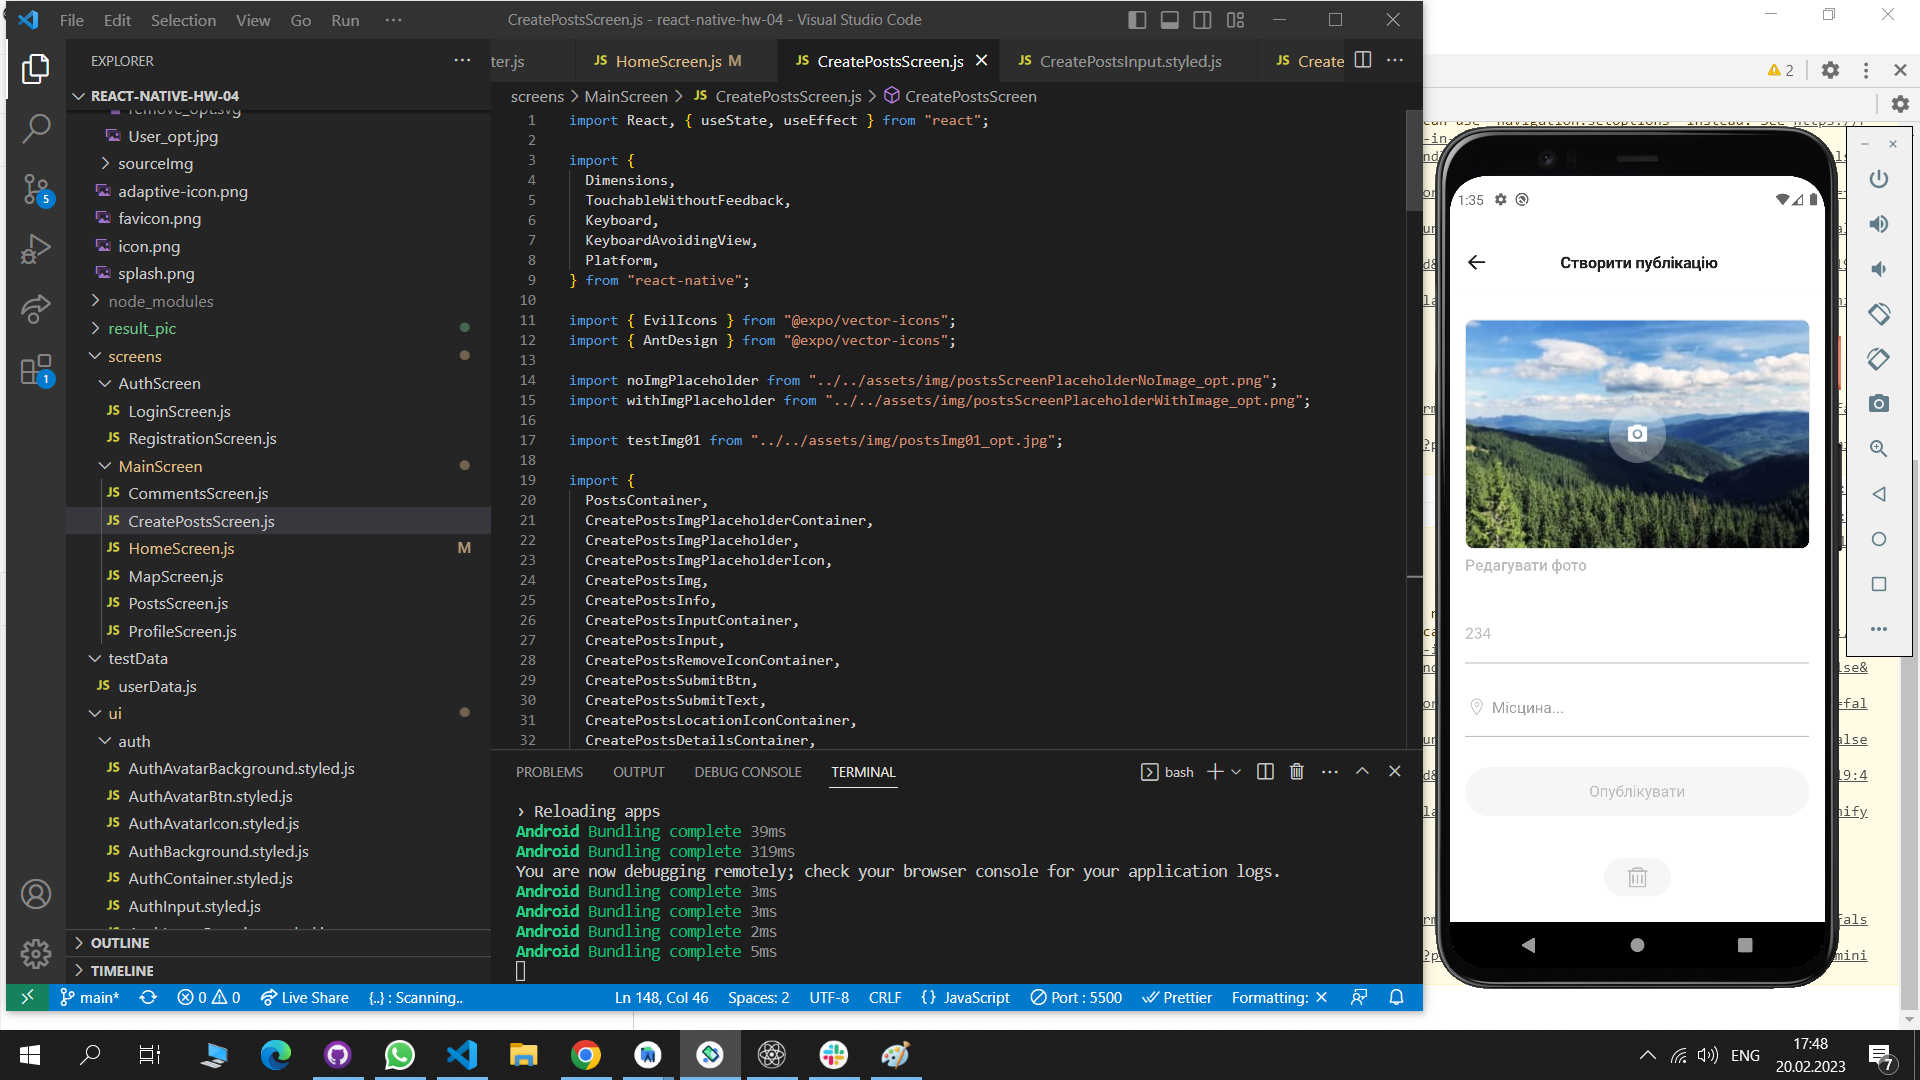
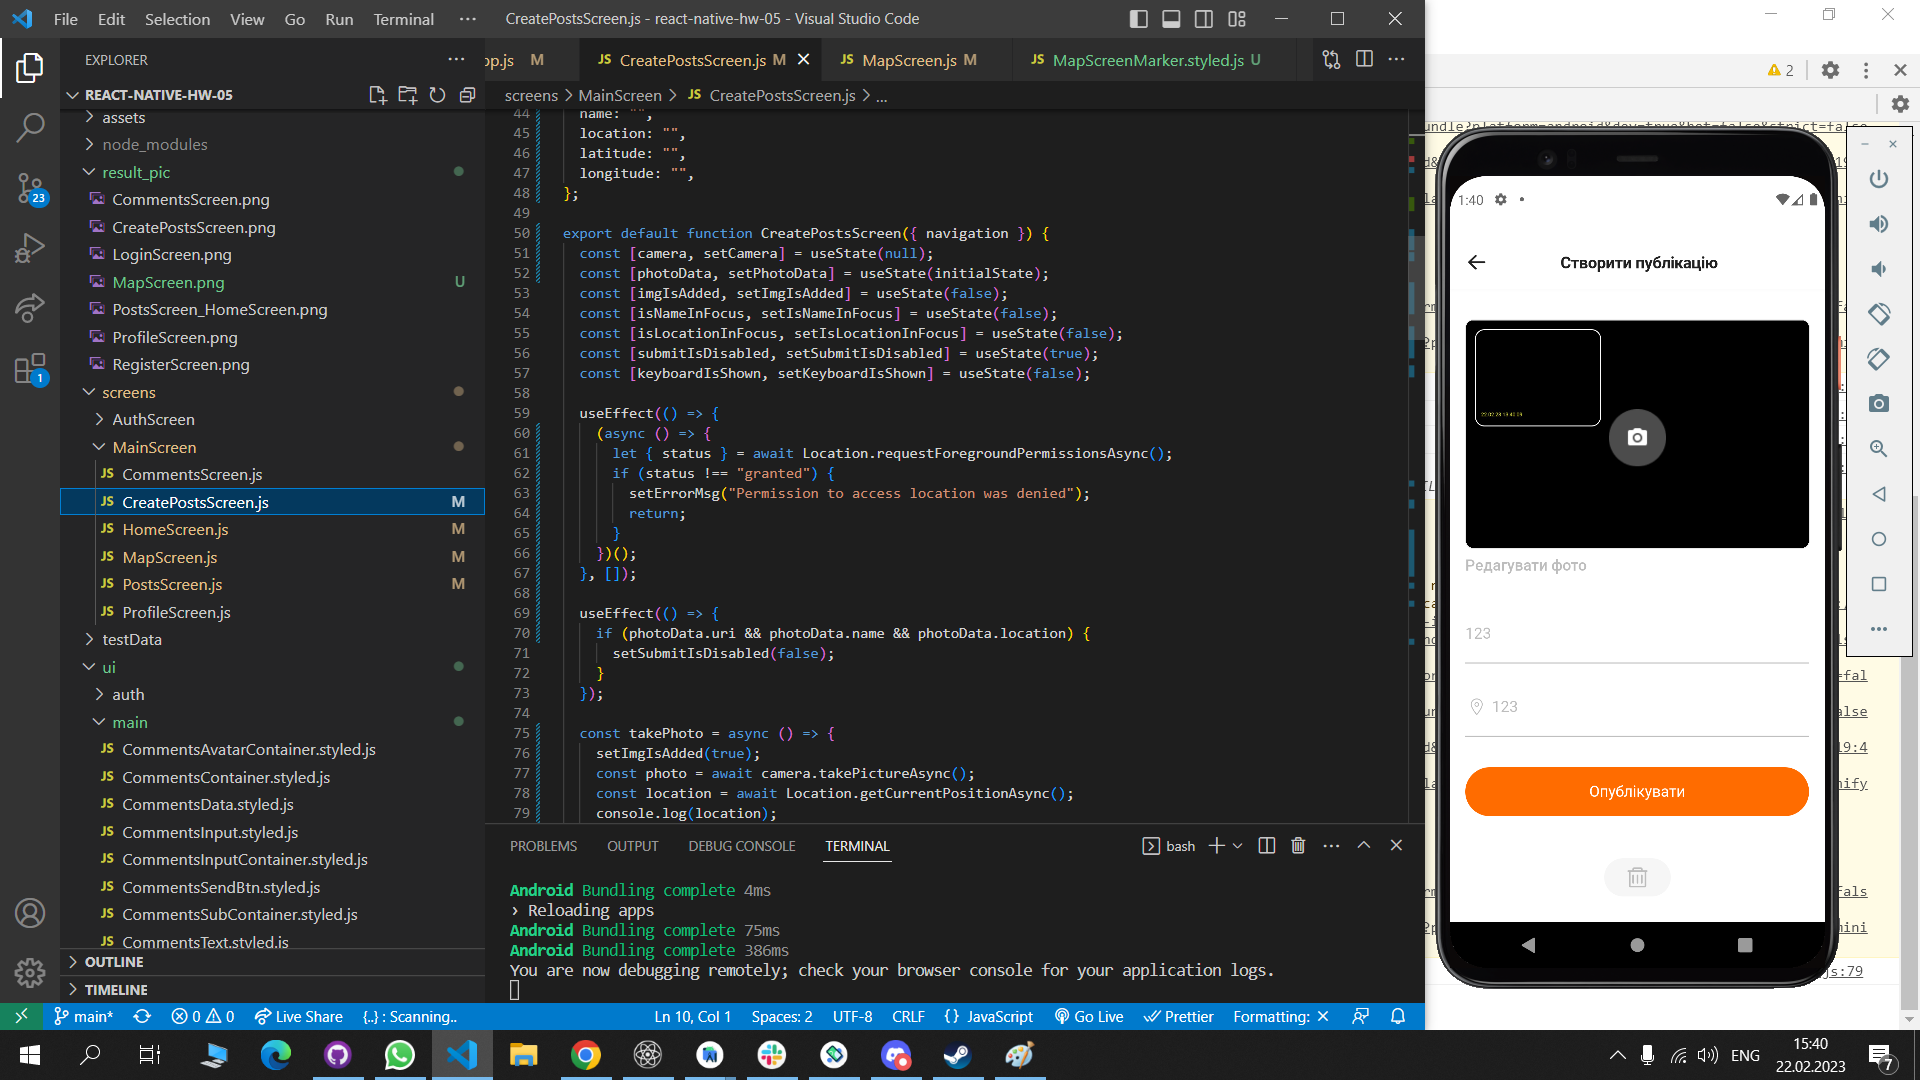
hw 05 probably done

diff --git a/screens/MainScreen/CreatePostsScreen.js b/screens/MainScreen/CreatePostsScreen.js
@@ -8,20 +8,18 @@ import {
   Platform,
 } from "react-native";
 
+import * as Location from "expo-location";
+
 import { EvilIcons } from "@expo/vector-icons";
 import { AntDesign } from "@expo/vector-icons";
 
 import noImgPlaceholder from "../../assets/img/postsScreenPlaceholderNoImage_opt.png";
 import withImgPlaceholder from "../../assets/img/postsScreenPlaceholderWithImage_opt.png";
 
-import testImg01 from "../../assets/img/postsImg01_opt.jpg";
-
 import {
   PostsContainer,
-  CreatePostsImgPlaceholderContainer,
-  CreatePostsImgPlaceholder,
-  CreatePostsImgPlaceholderIcon,
-  CreatePostsImg,
+  CreatePostsImgContainer,
+  CreatePostsImgIcon,
   CreatePostsInfo,
   CreatePostsInputContainer,
   CreatePostsInput,
@@ -30,16 +28,28 @@ import {
   CreatePostsSubmitText,
   CreatePostsLocationIconContainer,
   CreatePostsDetailsContainer,
+  CreatePostsImgSubContainer,
+  CreatePostsCameraView,
+  CreatePostsSnapBtn,
+  CreatePostsSnapPreview,
+  CreatePostsSnapPreviewContainer,
 } from "../../ui/main";
 
 const calculatedScreenWidth = `${Math.floor(
   Dimensions.get("window").width - 32
 )}px`;
 
-const initialState = { img: "Some Pic", name: "", location: "" };
+const initialState = {
+  uri: "",
+  name: "",
+  location: "",
+  latitude: "",
+  longitude: "",
+};
 
-export default function CreatePostsScreen() {
-  const [state, setState] = useState(initialState);
+export default function CreatePostsScreen({ navigation }) {
+  const [camera, setCamera] = useState(null);
+  const [photoData, setPhotoData] = useState(initialState);
   const [imgIsAdded, setImgIsAdded] = useState(false);
   const [isNameInFocus, setIsNameInFocus] = useState(false);
   const [isLocationInFocus, setIsLocationInFocus] = useState(false);
@@ -47,19 +57,38 @@ export default function CreatePostsScreen() {
   const [keyboardIsShown, setKeyboardIsShown] = useState(false);
 
   useEffect(() => {
-    if (state.img && state.name && state.location) {
+    (async () => {
+      let { status } = await Location.requestForegroundPermissionsAsync();
+      if (status !== "granted") {
+        setErrorMsg("Permission to access location was denied");
+        return;
+      }
+    })();
+  }, []);
+
+  useEffect(() => {
+    if (photoData.uri && photoData.name && photoData.location) {
       setSubmitIsDisabled(false);
     }
   });
 
-  const imgHandler = () => {
-    setImgIsAdded(!imgIsAdded);
+  const takePhoto = async () => {
+    setImgIsAdded(true);
+    const photo = await camera.takePictureAsync();
+    const location = await Location.getCurrentPositionAsync();
+    console.log(location);
+    setPhotoData((prevState) => ({
+      ...prevState,
+      uri: photo.uri,
+      latitude: location.coords.latitude,
+      longitude: location.coords.longitude,
+    }));
   };
 
   const nameHandler = (value) =>
-    setState((prevState) => ({ ...prevState, name: value }));
+    setPhotoData((prevState) => ({ ...prevState, name: value }));
   const locationHandler = (value) =>
-    setState((prevState) => ({ ...prevState, location: value }));
+    setPhotoData((prevState) => ({ ...prevState, location: value }));
 
   const onInputFocus = (name) => {
     setKeyboardIsShown(true);
@@ -96,14 +125,15 @@ export default function CreatePostsScreen() {
   };
 
   const removeData = () => {
-    setState(initialState);
+    setPhotoData(initialState);
     setSubmitIsDisabled(true);
     setImgIsAdded(false);
   };
 
   const onSubmit = () => {
-    console.log("Post data:", state);
-    setState(initialState);
+    console.log("Photo data:", photoData);
+    navigation.navigate("Публікації", { photoData });
+    setPhotoData(initialState);
     setSubmitIsDisabled(true);
     setImgIsAdded(false);
   };
@@ -111,24 +141,32 @@ export default function CreatePostsScreen() {
   return (
     <TouchableWithoutFeedback onPress={onScreenPress}>
       <PostsContainer keyboardIsShown={keyboardIsShown}>
-        <CreatePostsImgPlaceholderContainer onPress={imgHandler}>
-          <CreatePostsImgPlaceholder>
-            <CreatePostsImg source={imgIsAdded && testImg01}>
-              <CreatePostsImgPlaceholderIcon
-                source={imgIsAdded ? withImgPlaceholder : noImgPlaceholder}
-              ></CreatePostsImgPlaceholderIcon>
-            </CreatePostsImg>
-          </CreatePostsImgPlaceholder>
+        <CreatePostsImgContainer>
+          <CreatePostsImgSubContainer>
+            <CreatePostsCameraView ref={setCamera}></CreatePostsCameraView>
+          </CreatePostsImgSubContainer>
+          {photoData.uri !== "" && (
+            <CreatePostsSnapPreviewContainer>
+              <CreatePostsSnapPreview
+                source={{ uri: photoData.uri }}
+              ></CreatePostsSnapPreview>
+            </CreatePostsSnapPreviewContainer>
+          )}
+          <CreatePostsSnapBtn onPress={takePhoto}>
+            <CreatePostsImgIcon
+              source={imgIsAdded ? withImgPlaceholder : noImgPlaceholder}
+            ></CreatePostsImgIcon>
+          </CreatePostsSnapBtn>
           <CreatePostsInfo>
             {imgIsAdded ? "Редагувати фото" : "Завантажити фото"}
           </CreatePostsInfo>
-        </CreatePostsImgPlaceholderContainer>
+        </CreatePostsImgContainer>
         <KeyboardAvoidingView behavior={Platform.OS == "ios" ? "padding" : ""}>
           <CreatePostsDetailsContainer screenWidth={calculatedScreenWidth}>
             <CreatePostsInputContainer isInFocus={isNameInFocus}>
               <CreatePostsInput
                 placeholder="Назва..."
-                value={state.name}
+                value={photoData.name}
                 onChangeText={nameHandler}
                 onFocus={() => onInputFocus("name")}
                 onBlur={() => onInputBlur("name")}
@@ -141,7 +179,7 @@ export default function CreatePostsScreen() {
               </CreatePostsLocationIconContainer>
               <CreatePostsInput
                 placeholder="Місцина..."
-                value={state.location}
+                value={photoData.location}
                 onChangeText={locationHandler}
                 onFocus={() => onInputFocus("location")}
                 onBlur={() => onInputBlur("location")}

diff --git a/ui/main/index.js b/ui/main/index.js
@@ -11,10 +11,9 @@ export {default as PostsItemSubContainer} from "./PostsItemSubContainer.styled"
 export {default as PostsItemDetailsContainer} from "./PostsItemDetailsContainer.styled"
 export {default as PostsItemIcon} from "./PostsItemIcon.styled"
 export {default as PostsItemResponsesAmount} from "./PostsItemResponsesAmount.styled"
-export {default as CreatePostsImgPlaceholderContainer} from "./CreatePostsImgPlaceholderContainer.styled"
-export {default as CreatePostsImgPlaceholder} from "./CreatePostsImgPlaceholder.styled"
-export {default as CreatePostsImgPlaceholderIcon} from "./CreatePostsImgPlaceholderIcon.styled"
-export {default as CreatePostsImg} from "./CreatePostsImg.styled"
+export {default as CreatePostsImgContainer} from "./CreatePostsImgContainer.styled"
+export {default as CreatePostsImgSubContainer} from "./CreatePostsImgSubContainer.styled"
+export {default as CreatePostsImgIcon} from "./CreatePostsImgIcon.styled"
 export {default as CreatePostsInfo} from "./CreatePostsInfo.styled"
 export {default as CreatePostsInputContainer} from "./CreatePostsInputContainer.styled"
 export {default as CreatePostsInput} from "./CreatePostsInput.styled"
@@ -34,3 +33,10 @@ export {default as CommentsData} from "./CommentsData.styled"
 export {default as CommentsInputContainer} from "./CommentsInputContainer.styled"
 export {default as CommentsInput} from "./CommentsInput.styled"
 export {default as CommentsSendBtn} from "./CommentsSendBtn.styled"
+export {default as CreatePostsCameraView} from "./CreatePostsCameraView.styled"
+export {default as CreatePostsSnapBtn} from "./CreatePostsSnapBtn.styled"
+export {default as CreatePostsSnapPreview} from "./CreatePostsSnapPreview.styled"
+export {default as CreatePostsSnapPreviewContainer} from "./CreatePostsSnapPreviewContainer.styled"
+export {default as MapScreenContainer} from "./MapScreenContainer.styled"
+export {default as MapScreenView} from "./MapScreenView.styled"
+export {default as MapScreenMarker} from "./MapScreenMarker.styled"

diff --git a/screens/MainScreen/MapScreen.js b/screens/MainScreen/MapScreen.js
@@ -1,18 +1,26 @@
 import React from "react";
-import { View, Text, StyleSheet } from "react-native";
+
+import {
+  MapScreenContainer,
+  MapScreenView,
+  MapScreenMarker,
+} from "../../ui/main";
 
 export default function MapScreen() {
   return (
-    <View style={styles.container}>
-      <Text>mapScreen</Text>
-    </View>
+    <MapScreenContainer>
+      <MapScreenView
+        initialRegion={{
+          latitude: 50.450001,
+          longitude: 30.523333,
+          latitudeDelta: 0.09,
+          longitudeDelta: 0.04,
+        }}
+      >
+        <MapScreenMarker
+          coordinate={{ latitude: 50.450001, longitude: 30.523333 }}
+        ></MapScreenMarker>
+      </MapScreenView>
+    </MapScreenContainer>
   );
 }
-
-const styles = StyleSheet.create({
-    container: {
-        flex: 1,
-        justifyContent: "center",
-        alignItems: "center"
-    }
-})

diff --git a/ui/main/CreatePostsImgSubContainer.styled.js b/ui/main/CreatePostsImgSubContainer.styled.js
@@ -1,9 +1,8 @@
 import { View } from "react-native";
 import styled from "styled-components";
 
-const CreatePostsImgPlaceholder = styled(View)`
+const CreatePostsImgSubContainer = styled(View)`
   height: 240px;
-  width: 100%;
   background: #f6f6f6;
   border: 1px solid #e8e8e8;
   border-radius: 8px;
@@ -11,4 +10,4 @@ const CreatePostsImgPlaceholder = styled(View)`
   margin-bottom: 8px;
 `;
 
-export default CreatePostsImgPlaceholder;
+export default CreatePostsImgSubContainer;

diff --git a/screens/MainScreen/PostsScreen.js b/screens/MainScreen/PostsScreen.js
@@ -21,7 +21,8 @@ import commentIcon from "../../assets/img/commentIcon_opt.png";
 import commentIconFilled from "../../assets/img/commentIconFilled_opt.png";
 import locationIcon from "../../assets/img/locationIcon_opt.png";
 
-export default function PostsScreen() {
+export default function PostsScreen({route}) {
+  console.log(route);
   const navigation = useNavigation();
 
   const navigateToComments = (id) => {

diff --git a/ui/main/CreatePostsSnapPreviewContainer.styled.js b/ui/main/CreatePostsSnapPreviewContainer.styled.js
@@ -1,0 +1,15 @@
+import { View } from "react-native";
+import styled from "styled-components";
+
+const CreatePostsSnapPreview = styled(View)`
+  position: absolute;
+  top: 10px;
+  left: 10px;
+  border-radius: 10px;
+  background-color: transparent;
+  overflow: hidden;
+  border-width: 1px;
+  border-color: #fff;
+`;
+
+export default CreatePostsSnapPreview;

diff --git a/ui/main/CreatePostsSnapBtn.styled.js b/ui/main/CreatePostsSnapBtn.styled.js
@@ -1,0 +1,11 @@
+import { TouchableOpacity } from "react-native";
+import styled from "styled-components";
+
+const CreatePostsSnapBtn = styled(TouchableOpacity)`
+  position: absolute;
+  left: 50%;
+  top: 50%;
+  transform: translate(-30px, -40px);
+`;
+
+export default CreatePostsSnapBtn;

diff --git a/screens/MainScreen/HomeScreen.js b/screens/MainScreen/HomeScreen.js
@@ -45,7 +45,10 @@ function CommentsScreenPseudoHeader() {
   );
 }
 
-export default function HomeScreen({ LogOut }) {
+export default function HomeScreen(props) {
+  console.log(props);
+  const {LogOut} = props;
+  
   const navigation = useNavigation();
 
   const getBack = () => {

diff --git a/ui/main/MapScreenView.styled.js b/ui/main/MapScreenView.styled.js
@@ -1,0 +1,10 @@
+import MapView from "react-native-maps";
+import styled from "styled-components";
+
+const MapScreenView = styled(MapView)`
+  background-color: #fff;
+  height: 100%;
+  width: 100%;
+`;
+
+export default MapScreenView;

diff --git a/ui/main/CreatePostsImgContainer.styled.js b/ui/main/CreatePostsImgContainer.styled.js
@@ -1,0 +1,9 @@
+import { View } from "react-native";
+import styled from "styled-components";
+
+const CreatePostsImgContainer = styled(View)`
+  position: relative;
+  margin-bottom: 32px;
+`;
+
+export default CreatePostsImgContainer;

diff --git a/ui/main/CreatePostsImgIcon.styled.js b/ui/main/CreatePostsImgIcon.styled.js
@@ -1,0 +1,9 @@
+import { ImageBackground } from "react-native";
+import styled from "styled-components";
+
+const CreatePostsImgIcon = styled(ImageBackground)`
+  width: 60px;
+  height: 60px;
+`;
+
+export default CreatePostsImgIcon;

diff --git a/ui/main/CreatePostsSnapPreview.styled.js b/ui/main/CreatePostsSnapPreview.styled.js
@@ -1,0 +1,9 @@
+import { Image } from "react-native";
+import styled from "styled-components";
+
+const CreatePostsSnapPreview = styled(Image)`
+  height: 100px;
+  width: 130px;
+`;
+
+export default CreatePostsSnapPreview;
